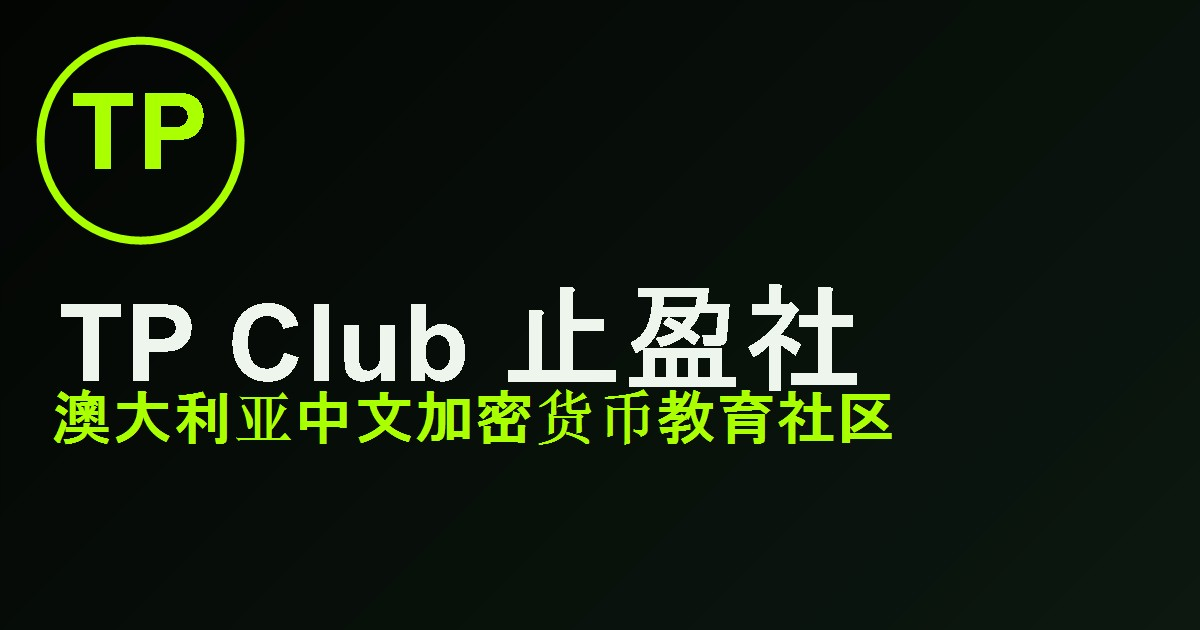
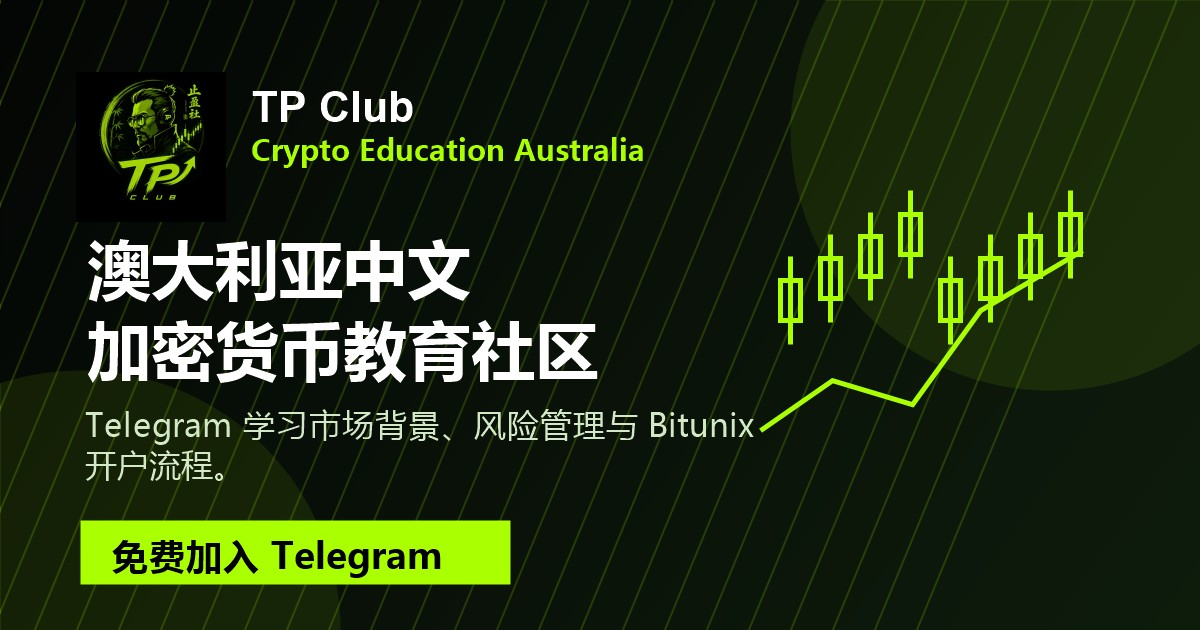
Remove booking flow and strengthen landing page trust

Changed region(s): [[0.0, 0.0, 1.0, 1.0], [0.0, 0.9952, 0.0308, 1.0]]

diff --git a/public/css/components.css b/public/css/components.css
@@ -171,8 +171,8 @@
 .instructor-photo {
   display: flex;
   flex-direction: column;
-  gap: 18px;
-  aspect-ratio: 4 / 5;
+  gap: 20px;
+  min-height: clamp(420px, 46vw, 560px);
   align-items: center;
   justify-content: center;
   overflow: hidden;
@@ -189,10 +189,10 @@
 }
 
 .instructor-photo img {
-  width: min(58%, 220px);
+  width: min(86%, 420px);
   height: auto;
-  border-radius: 24px;
-  filter: drop-shadow(0 0 28px rgba(170, 255, 0, 0.36));
+  border-radius: 32px;
+  filter: drop-shadow(0 0 38px rgba(170, 255, 0, 0.44));
 }
 
 .role {

diff --git a/public/css/layout.css b/public/css/layout.css
@@ -327,8 +327,8 @@
 
 .instructor-grid {
   display: grid;
-  grid-template-columns: minmax(260px, 0.78fr) 1fr;
-  gap: clamp(34px, 7vw, 90px);
+  grid-template-columns: minmax(340px, 0.95fr) 1fr;
+  gap: clamp(34px, 6vw, 72px);
   align-items: center;
 }
 

diff --git a/public/css/responsive.css b/public/css/responsive.css
@@ -194,8 +194,8 @@
   }
 
   .instructor-photo {
-    width: min(100%, 280px);
-    max-height: 280px;
+    width: min(100%, 420px);
+    min-height: 360px;
     margin-inline: auto;
   }
 

diff --git a/scripts/build-static.js b/scripts/build-static.js
@@ -18,7 +18,6 @@ const config = {
   siteUrl: (process.env.SITE_URL || 'https://tpclub.co').replace(/\/$/, ''),
   telegramUrl: process.env.TELEGRAM_URL || 'https://t.me/+VEugRODM7y5iNGY0',
   telegramChannelUrl: process.env.TELEGRAM_CHANNEL_URL || 'https://t.me/OfficialTPClub',
-  bookingUrl: process.env.BOOKING_URL || 'https://calendly.com/YOUR_BOOKING_LINK',
   bitunixUrl: process.env.BITUNIX_REFERRAL_URL || 'https://www.bitunix.com/register?vipCode=TPclubJackman',
   youtubeUrl: process.env.YOUTUBE_URL || 'https://www.youtube.com/@TPClub'
 };
@@ -109,7 +108,6 @@ async function renderPage({ lang, view, outputPath, pageKey, pagePath = '' }) {
       siteUrl: config.siteUrl,
       telegramUrl: config.telegramUrl,
       telegramChannelUrl: config.telegramChannelUrl,
-      bookingUrl: config.bookingUrl,
       bitunixUrl: config.bitunixUrl,
       youtubeUrl: config.youtubeUrl
     },

diff --git a/HOSTINGER.md b/HOSTINGER.md
@@ -14,7 +14,6 @@ This repository builds as a static Vite site. The build renders real HTML files 
 SITE_URL=https://tpclub.co
 TELEGRAM_URL=https://t.me/+VEugRODM7y5iNGY0
 TELEGRAM_CHANNEL_URL=https://t.me/OfficialTPClub
-BOOKING_URL=https://calendly.com/YOUR_BOOKING_LINK
 BITUNIX_REFERRAL_URL=https://www.bitunix.com/register?vipCode=TPclubJackman
 YOUTUBE_URL=https://www.youtube.com/@TPClub
 ```

diff --git a/README.md b/README.md
@@ -27,5 +27,4 @@ The static site is generated into `dist/`.
 - `SITE_URL` - Public production origin for canonical, sitemap, and social metadata
 - `TELEGRAM_URL` - Primary Telegram CTA URL
 - `TELEGRAM_CHANNEL_URL` - Telegram channel URL for contact and social metadata
-- `BOOKING_URL` - Free 1-on-1 booking CTA URL
 - `BITUNIX_REFERRAL_URL` - Partner exchange referral URL